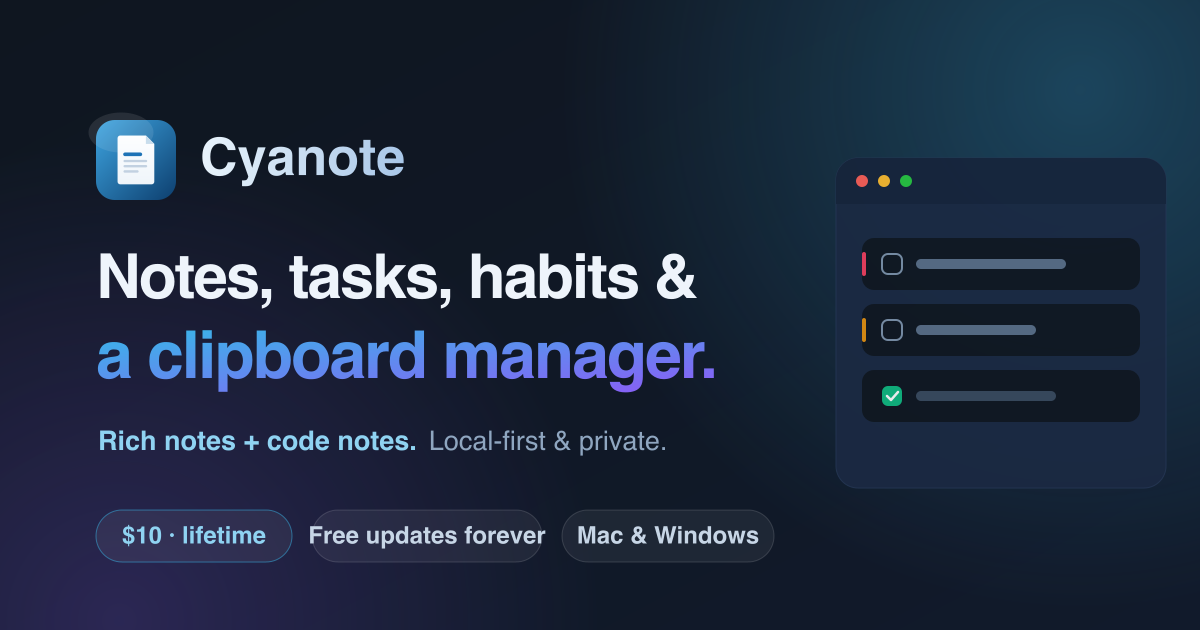
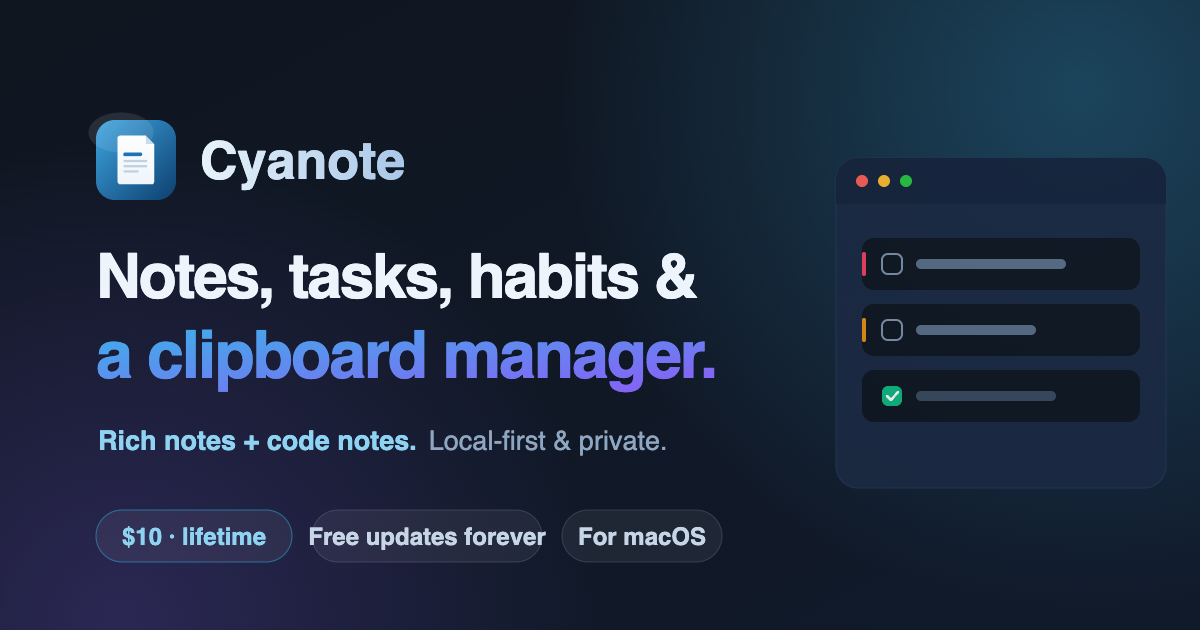
Deploy site

diff --git a/index.html b/index.html
@@ -3,8 +3,8 @@
 <head>
 <meta charset="utf-8" />
 <meta name="viewport" content="width=device-width, initial-scale=1" />
-<title>Cyanote — Notes, Tasks, Habits &amp; a Clipboard Manager for Mac and Windows</title>
-<meta name="description" content="Cyanote is a fast, private, all-in-one app for Mac and Windows: notes, to-dos, calendar, habits — and a powerful built-in clipboard manager. Local-first. One-time $10, yours forever with free updates." />
+<title>Cyanote — Notes, Tasks, Habits &amp; a Clipboard Manager for Mac</title>
+<meta name="description" content="Cyanote is a fast, private, all-in-one app for Mac: notes, to-dos, calendar, habits — and a powerful built-in clipboard manager. Local-first. One-time $10, yours forever with free updates. A Windows version is on the way." />
 <meta name="robots" content="index,follow,max-image-preview:large" />
 <meta name="theme-color" content="#0e7cc4" />
 <link rel="canonical" href="https://cyanote.app/" />
@@ -15,15 +15,15 @@
 <meta property="og:type" content="website" />
 <meta property="og:site_name" content="Cyanote" />
 <meta property="og:url" content="https://cyanote.app/" />
-<meta property="og:title" content="Cyanote — Notes, Tasks, Habits &amp; a Clipboard Manager for Mac and Windows" />
-<meta property="og:description" content="Local-first, all-in-one app for Mac and Windows. Notes, tasks, calendar, habits + a powerful clipboard manager. One-time $10, yours forever." />
+<meta property="og:title" content="Cyanote — Notes, Tasks, Habits &amp; a Clipboard Manager for Mac" />
+<meta property="og:description" content="Local-first, all-in-one app for Mac. Notes, tasks, calendar, habits + a powerful clipboard manager. One-time $10, yours forever. Windows coming soon." />
 <meta property="og:image" content="https://cyanote.app/og-image.png" />
 <meta property="og:image:width" content="1200" />
 <meta property="og:image:height" content="630" />
 <!-- Twitter/X card -->
 <meta name="twitter:card" content="summary_large_image" />
-<meta name="twitter:title" content="Cyanote — Notes, Tasks, Habits &amp; a Clipboard Manager for Mac and Windows" />
-<meta name="twitter:description" content="Local-first, all-in-one app for Mac and Windows. One-time $10, yours forever." />
+<meta name="twitter:title" content="Cyanote — Notes, Tasks, Habits &amp; a Clipboard Manager for Mac" />
+<meta name="twitter:description" content="Local-first, all-in-one app for Mac. One-time $10, yours forever. Windows coming soon." />
 <meta name="twitter:image" content="https://cyanote.app/og-image.png" />
 <style>
   :root{
@@ -239,12 +239,12 @@
   "@context": "https://schema.org",
   "@type": "SoftwareApplication",
   "name": "Cyanote",
-  "operatingSystem": "macOS 12.0 or later (Apple Silicon and Intel); Windows 10 and 11 (64-bit)",
+  "operatingSystem": "macOS 12.0 or later (Apple Silicon and Intel)",
   "applicationCategory": "ProductivityApplication",
-  "description": "A fast, private, all-in-one app for Mac and Windows: notes, to-dos, calendar, habits, and clipboard history. Local-first, one-time payment.",
+  "description": "A fast, private, all-in-one app for Mac: notes, to-dos, calendar, habits, and clipboard history. Local-first, one-time payment.",
   "url": "https://cyanote.app/",
   "image": "https://cyanote.app/og-image.png",
-  "softwareVersion": "1.38.0",
+  "softwareVersion": "1.40.0",
   "offers": {
     "@type": "Offer",
     "price": "10.00",
@@ -260,10 +260,9 @@
   "@type": "FAQPage",
   "mainEntity": [
     { "@type": "Question", "name": "Is it really a one-time payment?", "acceptedAnswer": { "@type": "Answer", "text": "Yes. Pay $10 once and Cyanote is yours forever, including all future updates. No subscription, no upsells." } },
-    { "@type": "Question", "name": "How do I get it after paying?", "acceptedAnswer": { "@type": "Answer", "text": "You'll get a download link straight after checkout, and by email. Both builds are there — one purchase covers Mac and Windows. On a Mac, drag Cyanote to your Applications folder; on Windows, run the installer. The app needs no licence key and no account — there is nothing to activate. Updates are built in and free forever." } },
+    { "@type": "Question", "name": "How do I get it after paying?", "acceptedAnswer": { "@type": "Answer", "text": "You'll get a download link straight after checkout, and by email. Drag Cyanote to your Applications folder and open it. The app needs no licence key and no account — there is nothing to activate. Updates are built in and free forever." } },
     { "@type": "Question", "name": "Where is my data stored?", "acceptedAnswer": { "@type": "Answer", "text": "Entirely on your own computer. Cyanote is local-first — there's no account and nothing is uploaded to a server. You can even password-lock individual notes." } },
-    { "@type": "Question", "name": "Which computers is it for?", "acceptedAnswer": { "@type": "Answer", "text": "Macs running macOS 12 Monterey or newer — both Apple Silicon and Intel, since Cyanote ships as a universal binary, signed and notarized by Apple. And PCs running 64-bit Windows 10 or 11. One purchase covers both: the licence isn't tied to a platform, so you can install it on your Mac and your PC." } },
-    { "@type": "Question", "name": "Why does Windows warn about the installer?", "acceptedAnswer": { "@type": "Answer", "text": "The Windows installer isn't code-signed yet, so Windows shows \"Windows protected your PC\" and calls the publisher unknown the first time you run it. Click More info, then Run anyway. A certificate is being sorted out. The Mac build is notarized by Apple, so it has no equivalent warning." } }
+    { "@type": "Question", "name": "Which computers is it for?", "acceptedAnswer": { "@type": "Answer", "text": "Macs running macOS 12 Monterey or newer — both Apple Silicon and Intel, since Cyanote ships as a universal binary, signed and notarized by Apple. A Windows version is on the way, and your purchase covers it when it arrives." } }
   ]
 }
 </script>
@@ -286,7 +285,7 @@
   <div>
     <span class="pill">✦ Local-first · No account · One-time $10</span>
     <h1>Everything you're juggling, in one quiet&nbsp;app.</h1>
-    <p class="sub">Notes, to-dos, a calendar, habits — and a system-wide clipboard manager. On your Mac or your PC, and it all stays there, not on someone's server.</p>
+    <p class="sub">Notes, to-dos, a calendar, habits — and a system-wide clipboard manager. On your Mac, and it all stays there, not on someone's server.</p>
     <div class="cta">
       <a class="btn btn-primary" data-cta="hero" href="#pricing">Get Cyanote — $10</a>
       <a class="btn btn-ghost" href="#features">See what it does</a>
@@ -298,7 +297,7 @@
       <li>🔄 Free updates</li>
       <li>🔒 Stays on your computer</li>
       <li>🍎 macOS 12+</li>
-      <li>🪟 Windows 10 &amp; 11</li>
+      <li>🪟 Windows coming soon</li>
     </ul>
   </div>
   <div class="hero-art">
@@ -373,20 +372,28 @@
       <li><b>✓</b> Every feature — notes, tasks, board, calendar, habits, routines, Pomodoro, clipboard</li>
       <li><b>✓</b> Free updates for life</li>
       <li><b>✓</b> Works offline, stays on your computer</li>
-      <li><b>✓</b> Mac and Windows — one purchase covers both</li>
+      <li><b>✓</b> Mac now, Windows when it's ready — one purchase covers both</li>
       <li><b>✓</b> Download straight after checkout</li>
     </ul>
     <a class="btn btn-primary" href="https://cyanote.lemonsqueezy.com/checkout/buy/61a2d3e6-2ac6-418d-8616-57209ada2075">Get Cyanote — $10</a>
-    <p style="color:var(--muted);font-size:.82rem;margin-top:14px">Secure checkout via Lemon Squeezy · macOS 12+ (Apple Silicon &amp; Intel), notarized by Apple · Windows 10 &amp; 11 (64-bit)</p>
-    <p style="color:var(--muted);font-size:.82rem;margin-top:8px">The Windows installer isn't code-signed yet, so Windows shows a warning the first time you run it — <em>More info → Run anyway</em>. A certificate is being sorted out.</p>
+    <p style="color:var(--muted);font-size:.82rem;margin-top:14px">Secure checkout via Lemon Squeezy · macOS 12+ (Apple Silicon &amp; Intel), notarized by Apple</p>
+  </div>
+
+  <!-- Windows is built but not on sale yet. It stays on the page on purpose:
+       people searching for a Windows app should still find Cyanote, and the
+       mailto builds the list to tell when it ships. Deliberately quiet — a
+       ghost button, so it never competes with Buy above. -->
+  <div style="max-width:440px;margin:20px auto 0;text-align:center">
+    <p style="color:var(--muted);font-size:.86rem"><b style="color:var(--text)">Windows: coming soon.</b> The Windows version is built and in testing. It goes on sale once it's properly signed, and your $10 covers it when it lands.</p>
+    <a class="btn btn-ghost" href="mailto:support@cyanote.app?subject=Tell%20me%20when%20Cyanote%20for%20Windows%20is%20ready"
+      style="margin-top:14px;font-size:.86rem;padding:.55rem 1.1rem">Tell me when Windows is ready</a>
   </div>
 
   <div id="faq" style="margin-top:56px">
     <details><summary>Is it really a one-time payment?</summary><p>Yes. $10 once, and every future version is included. There is no subscription and nothing else to buy.</p></details>
-    <details><summary>How do I get it after paying?</summary><p>You'll get a download link straight after checkout, and by email. Both builds are there — one purchase covers Mac and Windows. On a Mac, drag Cyanote to your Applications folder; on Windows, run the installer. The app needs no licence key and no account — there is nothing to activate. Updates are built in and free forever.</p></details>
+    <details><summary>How do I get it after paying?</summary><p>You'll get a download link straight after checkout, and by email. Drag Cyanote to your Applications folder and open it. The app needs no licence key and no account — there is nothing to activate. Updates are built in and free forever.</p></details>
     <details><summary>Where is my data stored?</summary><p>Entirely on your own computer, in a local database. There's no account and nothing is uploaded. Individual notes can be password-locked.</p></details>
-    <details><summary>Which computers is it for?</summary><p>Macs running macOS 12 (Monterey) or newer — both Apple Silicon and Intel, since Cyanote is a universal binary that runs natively on either. And PCs running 64-bit Windows 10 or 11. One purchase covers both: the licence isn't tied to a platform, so the same $10 puts it on your Mac and your PC.</p></details>
-    <details><summary>Why does Windows warn about the installer?</summary><p>The Windows installer isn't code-signed yet, so the first time you run it Windows shows “Windows protected your PC” and calls the publisher unknown. Click <em>More info</em>, then <em>Run anyway</em>. A certificate is being sorted out. The Mac build is signed and notarized by Apple, so it has no equivalent warning.</p></details>
+    <details><summary>Which computers is it for?</summary><p>Macs running macOS 12 (Monterey) or newer — both Apple Silicon and Intel, since Cyanote is a universal binary that runs natively on either. A Windows version is on the way; the licence isn't tied to a platform, so the same $10 covers it when it ships.</p></details>
     <p style="text-align:center;color:var(--muted);font-size:.92rem;margin-top:22px">
       Still wondering something? Email <a href="mailto:support@cyanote.app" style="color:var(--accent);font-weight:600">support@cyanote.app</a> — a real person answers.
     </p>

diff --git a/privacy.html b/privacy.html
@@ -44,9 +44,9 @@
   <h2>1. What the app collects</h2>
   <p><strong>Nothing on our servers.</strong> All your data — notes, to-dos, calendar, habits,
   clipboard history, settings — is stored locally on your own computer, in a SQLite database at
-  <code>~/Library/Application Support/app.cyanote.desktop/</code> on a Mac and
-  <code>%APPDATA%\app.cyanote.desktop\</code> on Windows (or a different folder, if you
-  chose one in Settings). It is never uploaded to us and we have no way to read it.</p>
+  <code>~/Library/Application Support/app.cyanote.desktop/</code> on a Mac (or a different
+  folder, if you chose one in Settings). It is never uploaded to us and we have no way to
+  read it.</p>
   <p>There is no account, and no analytics or telemetry of any kind: no analytics SDK, no crash
   reporter, no usage pings, no device or install identifier generated by the app. The app is also
   locked down at the browser level — its content security policy permits no outbound network
